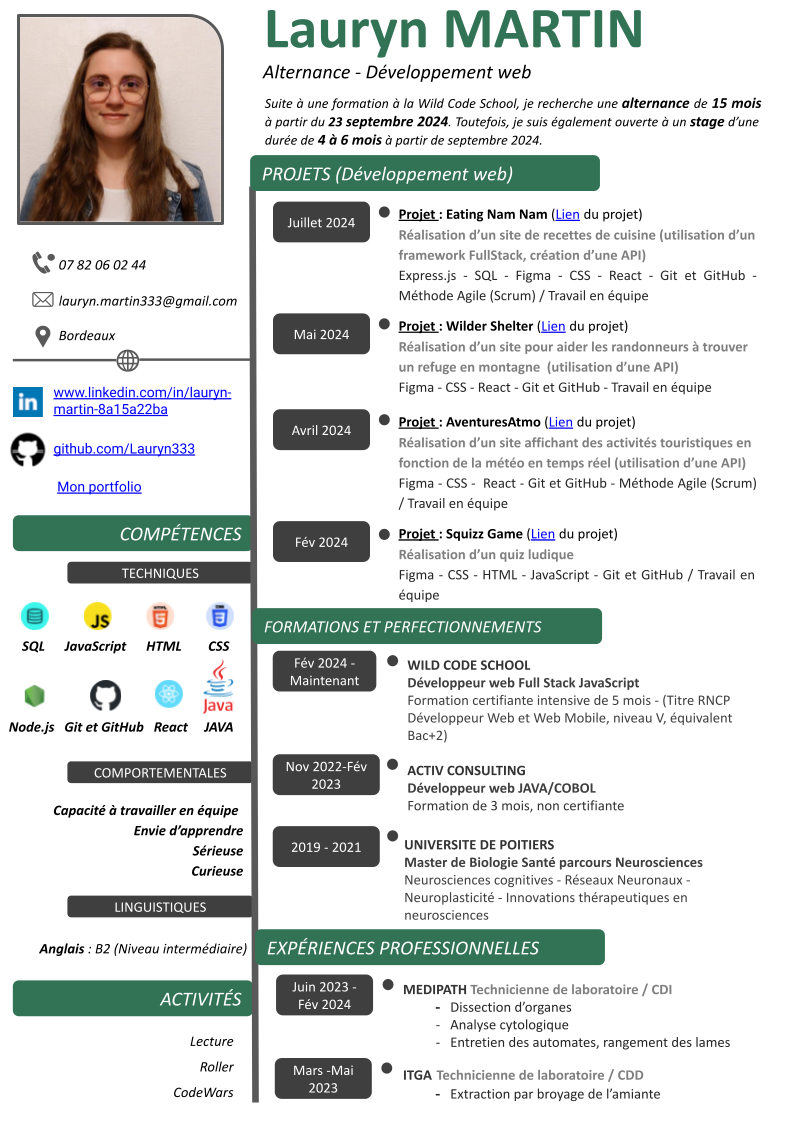
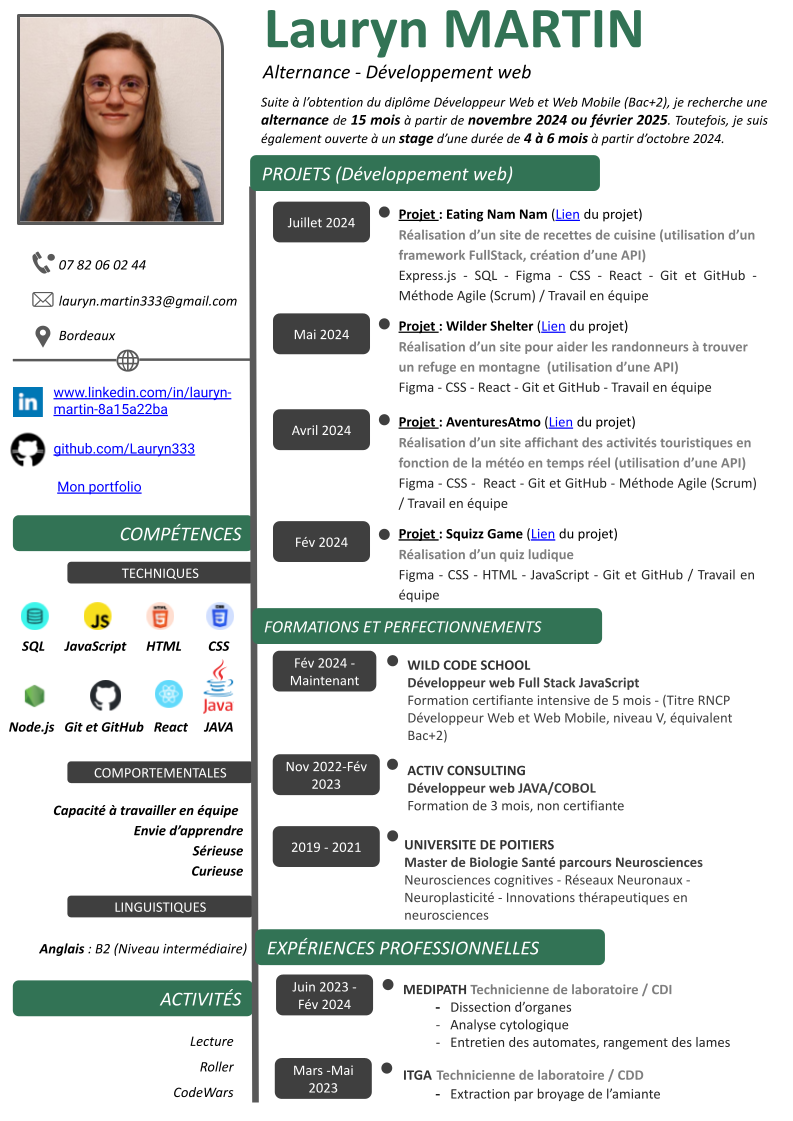
Mise à jour CV

Changed region(s): [[0.3329, 0.0624, 0.9685, 0.1561]]

diff --git a/src/pages/HomePage.jsx b/src/pages/HomePage.jsx
@@ -16,9 +16,10 @@ function HomePage() {
           laboratoire, je souhaite me reconvertir dans le domaine du
           développement web.
           <br />
-          Suite à une formation de 5 mois Full Stack JavaScript à la Wild Code
-          School, je recherche une alternance de 15 mois pour le 23 septembre
-          2024.
+          Suite à l'obtention du titre Développeur Web et Web Mobile (Bac +2) à
+          l'issue d'une formation de 5 mois Full Stack JavaScript à la Wild
+          Code, je recherche une alternance de 15 mois à partir de novembre 2024
+          ou février 2025 pour approfondir mes compétences.
         </p>
       </div>
       <h2>Technologies utilisées </h2>
